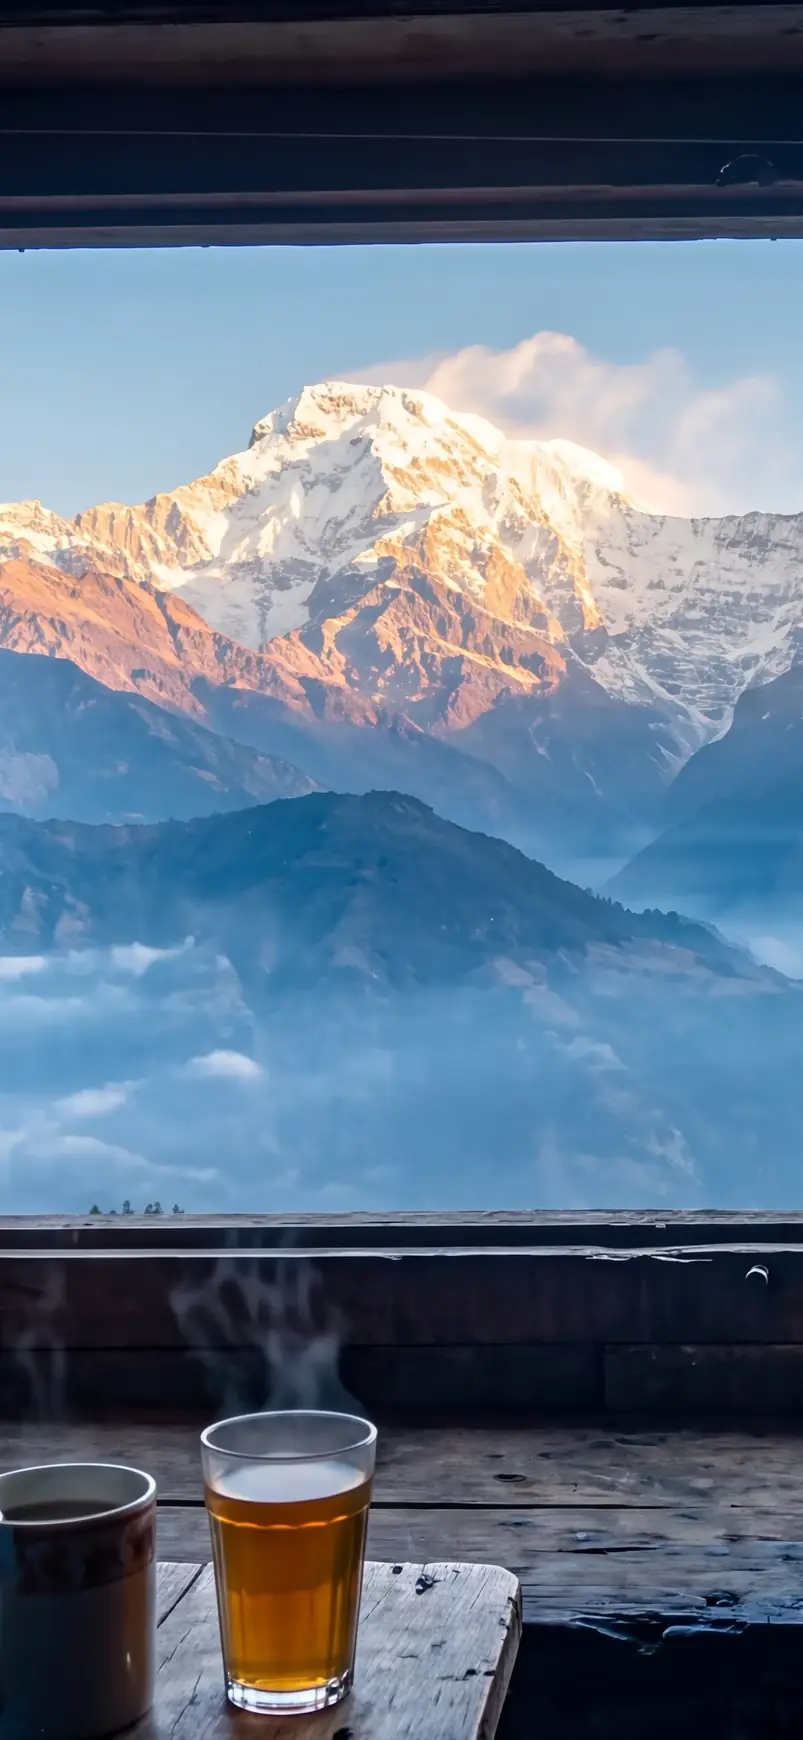
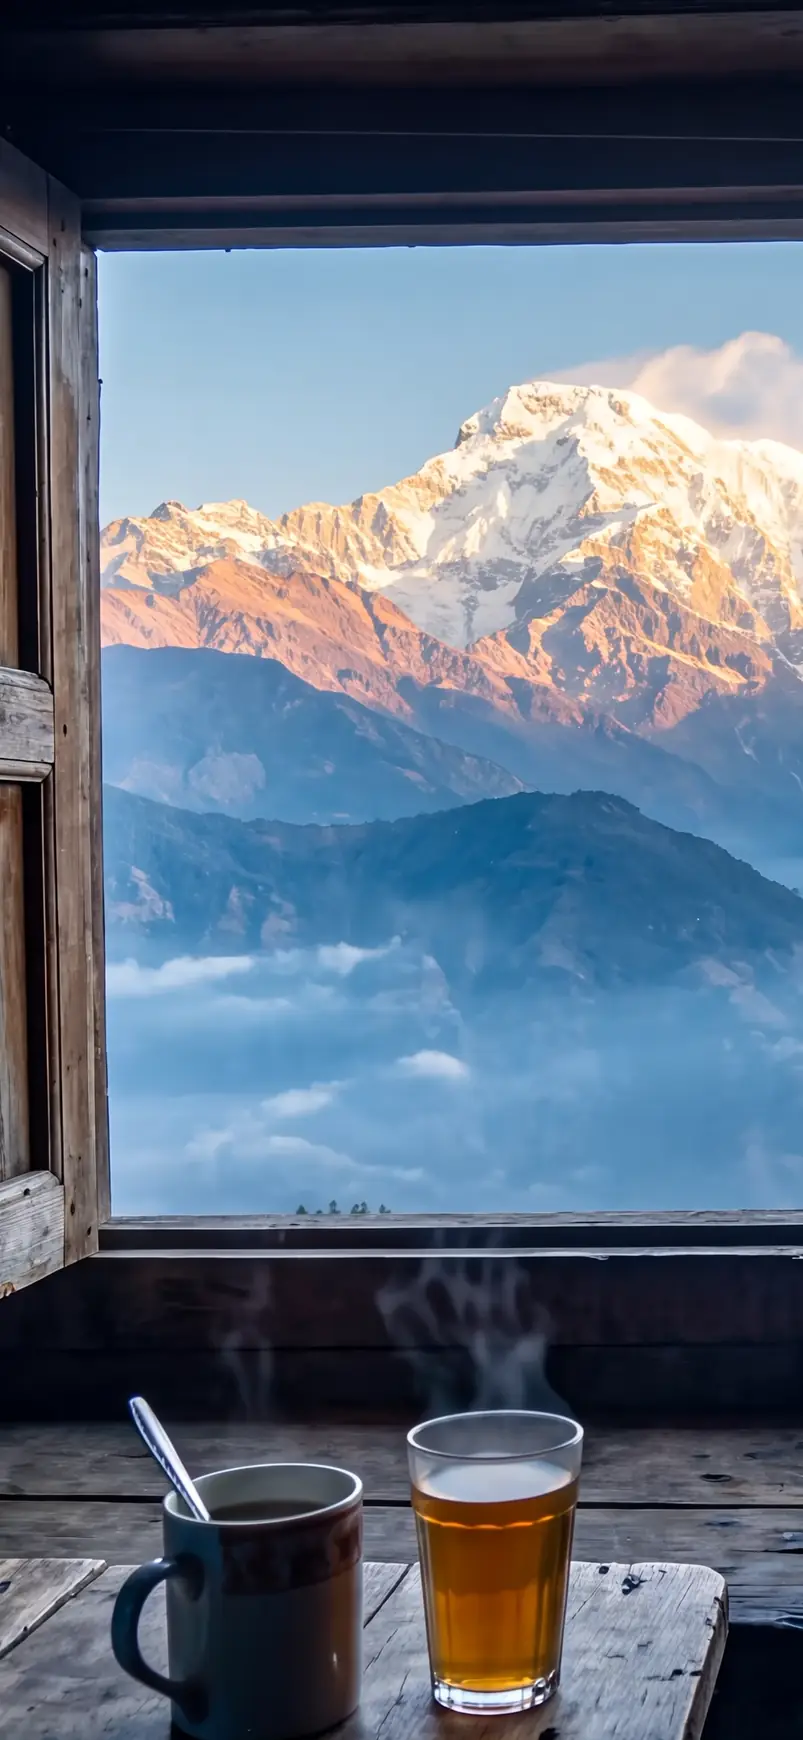
הקרופ במובייל לפאנל החדר: focus 0.30
בחירתו של שחר מבין חמש האפשרויות. מכניס את מזוזת החלון
לצד ימין של הקדר, ואיתה את הכוס והספל במלואם — מסגור
אדריכלי, "מבפנים החוצה", במקום פס הר חשוף.

הפריים הרחב לא נגע. שינוי בקבצי המובייל בלבד.

diff --git a/index.html b/index.html
@@ -24,7 +24,7 @@
 <link href="https://fonts.googleapis.com/css2?family=Frank+Ruhl+Libre:wght@300;400;500;700&family=Assistant:wght@200;300;400;600;700&display=swap" rel="stylesheet">
 <link rel="preload" as="image" href="img/S01-boudhanath-dawn-w.webp" media="(min-width:769px)">
 <link rel="preload" as="image" href="img/S01-boudhanath-dawn-m.webp" media="(max-width:768px)">
-<link rel="stylesheet" href="css/style.css?v=22">
+<link rel="stylesheet" href="css/style.css?v=23">
 
 <script type="application/ld+json">
 {
@@ -654,10 +654,10 @@
   <span data-i18n="wa.float">דברו איתנו</span>
 </a>
 
-<script src="js/i18n.js?v=22"></script>
-<script src="js/i18n-content.js?v=22"></script>
-<script src="js/data.js?v=22"></script>
-<script src="js/data-en.js?v=22"></script>
-<script src="js/app.js?v=22"></script>
+<script src="js/i18n.js?v=23"></script>
+<script src="js/i18n-content.js?v=23"></script>
+<script src="js/data.js?v=23"></script>
+<script src="js/data-en.js?v=23"></script>
+<script src="js/app.js?v=23"></script>
 </body>
 </html>
